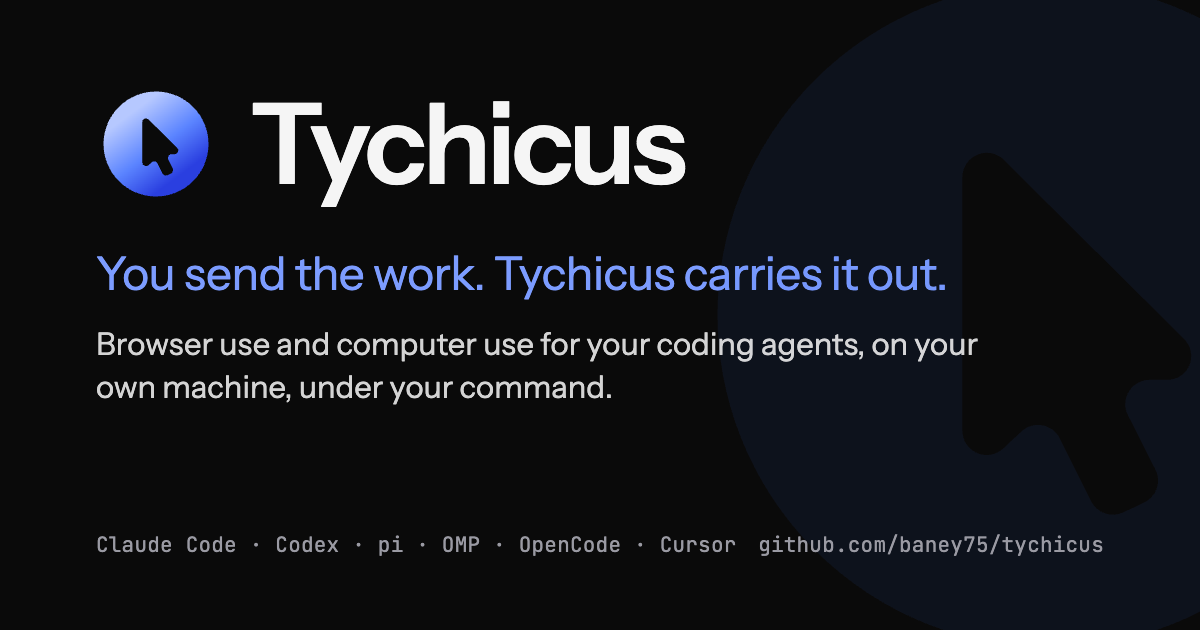
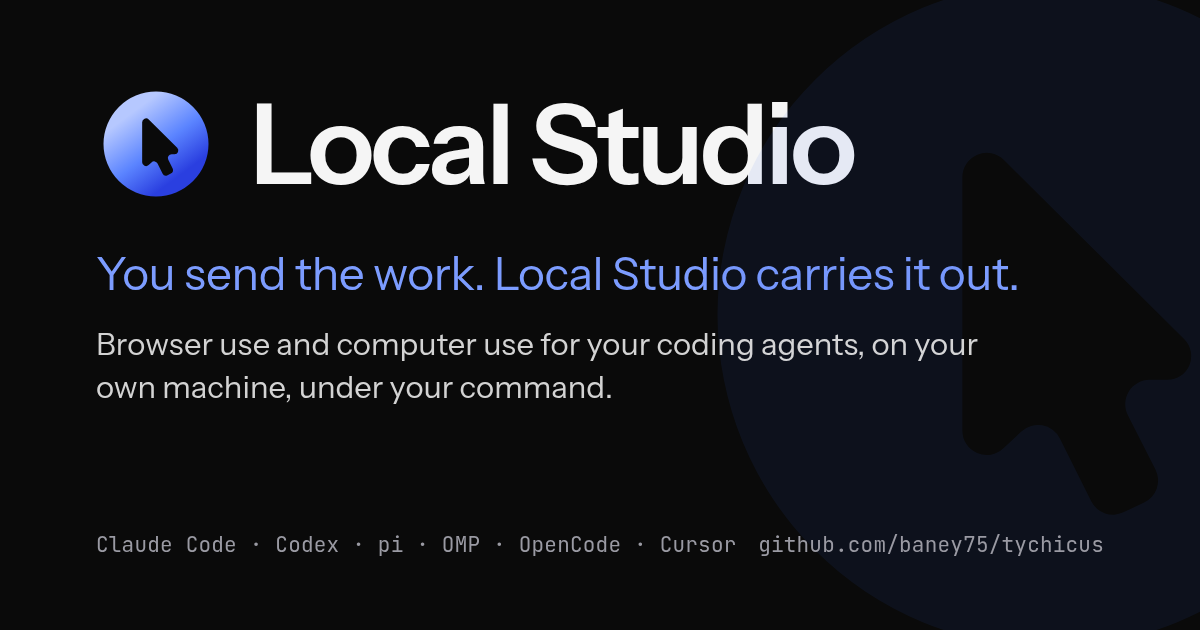
README and brand images say Local Studio (tychicus#142)
* README and brand images say Local Studio

* README: the helper and the extension, not the app, where that is meant

---------

diff --git a/browser/README.md b/browser/README.md
@@ -1,21 +1,21 @@
-# Tychicus
+# Local Studio: browser and computer use
 
 [![CI](https://github.com/baney75/tychicus/actions/workflows/ci.yml/badge.svg?branch=main)](https://github.com/baney75/tychicus/actions/workflows/ci.yml)
 [![License: AGPL-3.0](https://img.shields.io/badge/license-AGPL--3.0-blue)](LICENSE)
 
-Tychicus gives AI agents browser use and computer use. It is a Chromium extension, a CLI helper
-and an MCP server. Claude Code, Codex, pi or any MCP client drives your real browser through it,
+This is the part of Local Studio that gives AI agents browser use and computer use: a Chromium
+extension, a CLI helper and an MCP server. Claude Code, Codex, pi or any MCP client drives your real browser through it,
 in background tabs of its own, while you keep working. The computer-use tools reach desktop apps
 through a platform driver.
 
-Tychicus works with or without Local Studio and ships three ways: as Local Studio's default
-plugin, as this Chrome extension, and as a standalone app. When Local Studio runs, the side panel
+It works with or without the Local Studio desktop app and ships three ways: as the app's default
+plugin, as this Chrome extension, and as a standalone helper. When the app runs, the side panel
 chats through its Eukhe daemon, on your local models and the subscriptions you signed in to there,
 without the extension holding any API key (see below). The rest of the CLI and the outside-agent
 tools work as they did in Polycarp.
 
-The name is Tychicus, Paul's courier in the New Testament (Ephesians 6:21-22, Colossians 4:7-8):
-the one who carries messages and does the errands.
+The command, the MCP server, the native host, the services, the folders and this repository still
+use an earlier name, `tychicus`.
 
 ## How the panel reaches models
 
@@ -36,7 +36,7 @@ tool steps back to the panel. Stop sends Abort to that session.
   private folder, and only reads there run unasked (Eukhe's `shell.autoEffects`, for that session
   alone); the panel says no to every command and write. If Local Studio won't take the limit, the
   chat does not start.
-- **Only this extension.** The host answers only the pinned Tychicus extension ID and exits for
+- **Only this extension.** The host answers only the pinned extension ID and exits for
   any other caller before it reads a message.
 - **When Local Studio is not running**, a chat on it says so and how to fix it (start Local
   Studio, or run `eukhe` in a terminal) within a few seconds, instead of waiting. Local Studio
@@ -48,7 +48,7 @@ tool steps back to the panel. Stop sends Abort to that session.
 
 Driving a consumer subscription (a chat plan you pay for as a person) through automation may
 break that provider's terms of service. Some providers allow it, some forbid it, and terms
-change. Tychicus does not decide this for you. Read your provider's terms and decide whether to
+change. Local Studio does not decide this for you. Read your provider's terms and decide whether to
 connect a subscription; API keys under a developer agreement are the safer route where terms
 are unclear.
 
@@ -77,13 +77,13 @@ release's own `tychicus install --release`, which checks again and registers the
 no sudo and refuses to run as root or administrator unless you pass `--allow-root`. On macOS and
 Linux it links `~/.local/bin/tychicus` to the installed release, so `tychicus` works in a new
 terminal; it says so when `~/.local/bin` isn't on your PATH or another `tychicus` comes first, and
-asks before replacing a `tychicus` there that isn't Tychicus's (without a terminal it leaves it and
+asks before replacing a `tychicus` there that isn't the helper's (without a terminal it leaves it and
 prints the `ln -sf` command).
 `TYCHICUS_VERSION=1.2.3` installs that release instead of the latest, and options after
 `sh -s --` go to the installer: `curl -fsSL <address above> | sh -s -- --local-studio`. Releases
 are built for macOS on Apple silicon, Linux x64 and Windows x64.
 
-Then load the extension as step 3 below says. Once Tychicus is listed on the Chrome Web Store,
+Then load the extension as step 3 below says. Once the extension is listed on the Chrome Web Store,
 that copy works too: its welcome screen shows the command for your computer with a Copy button,
 and shows the helper connected once the command has run.
 
@@ -141,12 +141,12 @@ claude mcp add --scope user tychicus -- tychicus mcp
 ```
 
 The extension ID (`igjafcggmahiboobmnhfkndodphjdnhg`) comes from the manifest key and
-differs from Polycarp's, and the native host is `com.tychicus.browser`, so Tychicus and Polycarp
+differs from Polycarp's, and the native host is `com.tychicus.browser`, so the extension and Polycarp
 can be installed side by side without either one answering for the other.
 
-### Tychicus keeps to its own files
+### The helper keeps to its own files
 
-Tychicus never writes to Polycarp's files. It has its own config folder (`~/.config/tychicus`),
+The helper never writes to Polycarp's files. It has its own config folder (`~/.config/tychicus`),
 data and cache folders, launchers (`tychicus`, `tychicus-host`), native host
 (`com.tychicus.browser`), socket folder (`/tmp/tychicus-bridge-<user>`), service names
 (`com.tychicus.serve`, `tychicus-serve.service` and so on) and MCP entry (`tychicus`). The npm
@@ -219,12 +219,12 @@ into a Polycarp folder. Tunnel credentials under a Polycarp folder are copied; o
 hostname, tunnel and sign-ins are kept, so the connector needs no change in claude.ai, ChatGPT or grok.com. Nothing under
 Polycarp's folders is changed or deleted.
 
-Then it swaps each service in turn: Polycarp's stops, Tychicus's starts and must answer (serve: `GET /mcp` on this
+Then it swaps each service in turn: Polycarp's stops, the helper's starts and must answer (serve: `GET /mcp` on this
 computer returns 401), or Polycarp's comes back, the copy is undone and the command exits 1 with the reason. On success
 Polycarp's plists move to `~/Library/LaunchAgents/retired-polycarp/` (Linux: its units are disabled, not deleted), and it
-reads back which services are loaded. It refuses when Tychicus already has remote state; `--force` replaces it after
-saving Tychicus's files to a `pre-import-<time>` folder. `tychicus install` prints a hint to run it when Polycarp has a
-`remote.json` and Tychicus doesn't.
+reads back which services are loaded. It refuses when the helper already has remote state; `--force` replaces it after
+saving the helper's files to a `pre-import-<time>` folder. `tychicus install` prints a hint to run it when Polycarp has a
+`remote.json` and the helper doesn't.
 
 ## Moved from Polycarp
 
@@ -245,5 +245,5 @@ built on his [pi](https://github.com/badlogic/pi-mono) and
 ## License
 
 [AGPL-3.0](LICENSE), unchanged from Polycarp's `browser/` folder and from upstream. If you run a
-modified Tychicus for others over a network, the AGPL asks you to offer them its source. The
+modified version for others over a network, the AGPL asks you to offer them its source. The
 Polycarp name and logo (in Polycarp's `brand/` folder) are not covered by this license.

diff --git a/browser/media/brand/BRAND.md b/browser/media/brand/BRAND.md
@@ -1,12 +1,11 @@
-# Tychicus brand
+# Local Studio browser and computer tools: brand
 
-**Tychicus** is Paul's courier in the New Testament (Ephesians 6:21-22, Colossians 4:7-8): the
-trusted one who carries the letters and does the errands. You send the work and it carries it out
-on your computer and in your browser. The brand should feel calm and capable, with the human in
-command. It is not an "autonomous AI agent".
+These are Local Studio's hands: you send the work and it carries it out on your computer and in
+your browser. The brand should feel calm and capable, with the human in command. It is not an
+"autonomous AI agent".
 
-Tychicus is part of the Local Studio family, so it uses Local Studio's colors and draws its mark the
-way Local Studio draws its own: a disc built from circles, with a shape cut out of it.
+The extension and helper are part of Local Studio, so they use its colors and draw their mark the
+way the desktop app draws its own: a disc built from circles, with a shape cut out of it.
 
 ## Mark
 
@@ -40,7 +39,7 @@ Rules:
 - Keep the mark one shape: no outlines, shadows or added symbols on it.
 - Don't rotate it. The pointer always points up and to the left.
 - Don't put it in Polycarp's olive or the old helm's brass. Never pair it with the Sitegeist orb,
-  badlogic's marks or Polycarp's helm; Tychicus credits them in words, not in pictures.
+  badlogic's marks or Polycarp's helm; Local Studio credits them in words, not in pictures.
 
 ## Palette
 
@@ -74,8 +73,8 @@ use these values; `tokens.ts` lifts accent text to 4.5:1 when a user picks anoth
 
 Both fonts are OFL-licensed and come from `@fontsource` packages in `site/`.
 
-The wordmark is "Tychicus" with a capital T, set in Instrument Sans semibold at -0.035em
-tracking. Write the name as Tychicus in prose and as `tychicus` for the command.
+The wordmark is "Local Studio", two words, set in Instrument Sans semibold at -0.035em
+tracking. Write the name as Local Studio in prose; the command is `tychicus` until it is renamed.
 
 ## Still to redo
 
